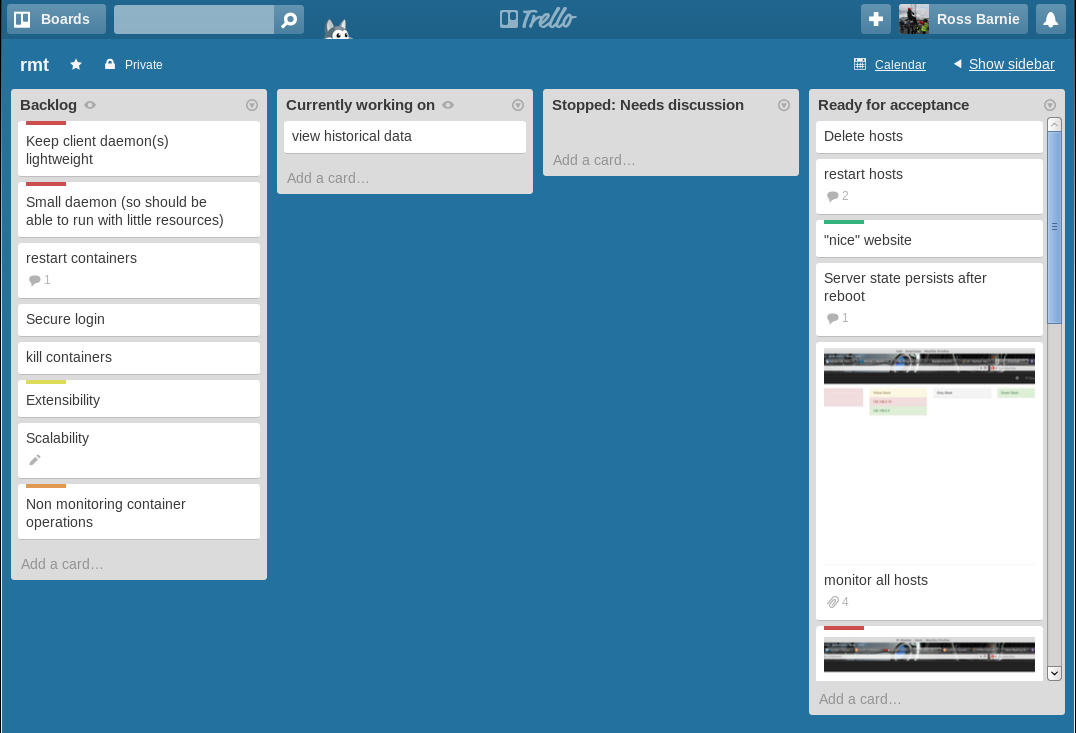
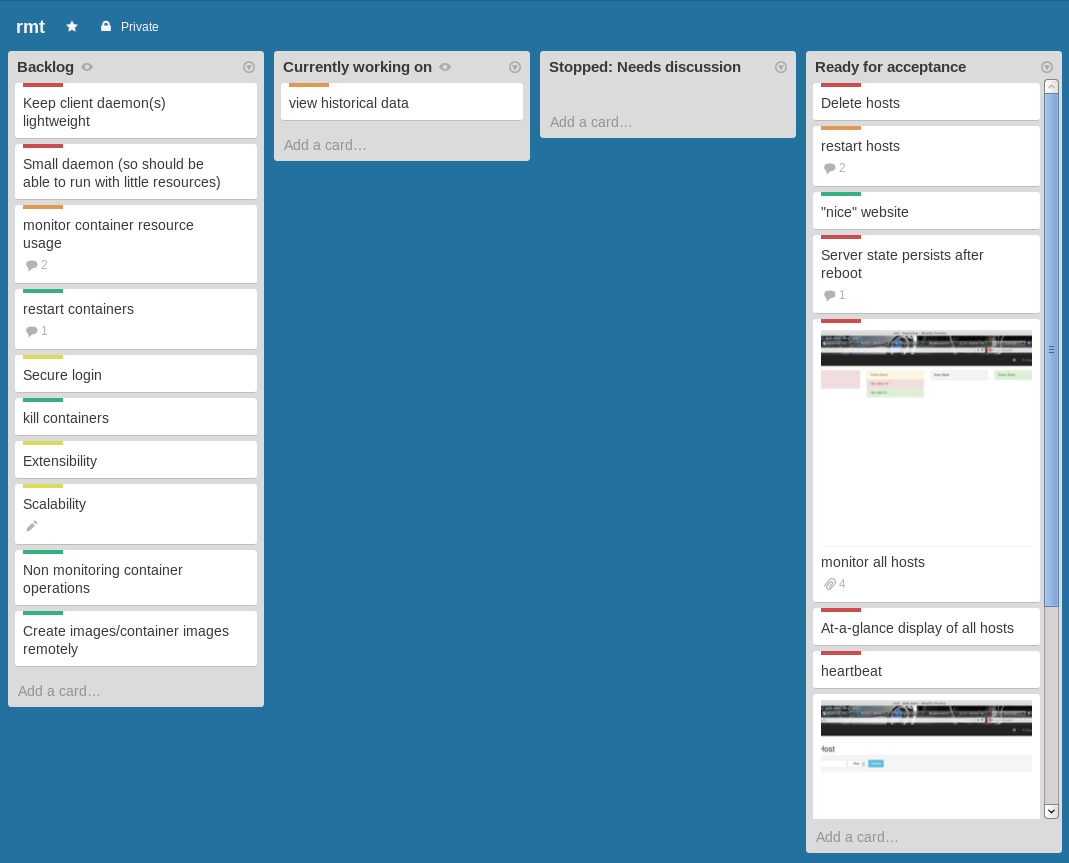
added todays changes

Changed region(s): [[0.0, 0.0, 1.0, 1.0]]

diff --git a/tex/problems.tex b/tex/problems.tex
@@ -1,0 +1,36 @@
+Throughout the development of \emph{rmt} many problems were encountered, some of which are outlined below.
+
+\subsection{Google Charts}
+
+Part of the reason the history graphs functionality was never completed was due to problems encountered when working with Google Charts \citeyearpar{googlecharts}.
+Some of the problems were to do with lack of understanding of JavaScript \citep{javascript} and jQuery \citep{jquery}.
+
+As explained in section \ref{rmt_server}, web.py's templating language uses the dollar sign (\$) as a signal to begin a statement.
+JQuery is also automatically included in each of the pages used by \emph{rmt} since it is used by Bootstrap.
+This proved problematic in a script designed to create a graph using Google Charts since it uses JavaScript and the dollar sign is jQuery shorthand to begin manipulating HTML elements.
+This conflict was not picked up by web.py's debug mode, nor by Firefox's web development tools \citep{firefoxdevtools}, so no error message was displayed, but no graph was displayed.
+
+After several failed attempts it was abandoned in favour of Flot \citep{flot}, which for reasons yet to reveal themselves, works even with the same dollar sign conflict problem as Google Charts.
+
+\subsection{Web.py forms and Bootstrap form styling}
+
+Using forms in web.py is relatively simple, as there are code samples on the web.py website explaining how to use them \citep{webpyform, webpyformfields}, however these do not include how to style individual fields, and neither does the API reference describing the web.py form class \citep{webpyformclass}.
+
+After many failed attempts at constructing the form in the python codebase rather than in the template, it was decided to attempt to create the form in the HTML template, then manipulate the results in the python codebase.
+This is now the form used in the add page.
+
+\subsection{Development location}
+
+Primarily the development of \emph{rmt} was completed at home and not at University of Glasgow's level 4 computing science laboratory for a number of reasons.
+
+\begin{itemize}
+	\item Root (administrator) access was required to run docker and allowing a student to have root access to the entire laboratory was out of the question, so programming the networking and docker-based functionality was far easier to do and test on a home network with full administrative privileges.
+	\item Docker was not installed on the computers in the level 4 lab, though admittedly due to the previous point this was never requested.
+	\item The disk space quota on the computers in the laboratory is limited and when trying to install modules it would fail due to lack of disk space, leading to wasted time trying to find items to delete.
+\end{itemize}
+
+Working from home was potentially not the only option available.
+Requests could have been made for root access to a small subnet of computers or perhaps a remote authentication to the PiCloud itself could have been arranged, however this was never requested.
+
+While it was the most convenient option it had a detrimental effect on ability to focus, as separating home life from university life proved problematic.
+More of this project could have been completed had development occurred in an environment more conducive to learning and productivity, and though it is accepted that this was not the only problem related to productivity, it was certainly the largest contributing factor.

diff --git a/tex/arch.tex b/tex/arch.tex
@@ -1,4 +1,5 @@
-The architecture of \emph{rmt} is quite simple and a diagram showing the architecture can be seen in figure \ref{fig:arch} which will be referred to throughout this section.
+\label{sec:arch}
+A diagram showing the architecture can be seen in figure \ref{fig:arch} which will be referred to throughout this section.
 
 \begin{figure}[t]
 	\centering
@@ -20,7 +21,7 @@ There is no communication between \verb%rmt_client% and \verb%HeartbeatClient%.
 
 \subsection{Docker}
 The docker module seen in the architecture diagram is docker running on the client.
-Docker and its uses are explained in section [section reference to docker].
+Docker and its uses are explained in section \ref{sec:docker}.
 
 \subsection{rmt\_client}
 \label{sec:rmt_client}
@@ -59,6 +60,7 @@ This table contains the following fields:
 \end{description}
 
 \subsection{HeartbeatServer and HeartbeatClient}
+\label{sec:heartbeat}
 Both of these are not original to \emph{rmt} as they were retrieved from [link] and this is stated as such in the comments of the source code.
 However they were adapted for use in \emph{rmt}.
 
@@ -69,6 +71,7 @@ The number of seconds between each sent packet is configurable on HeartbeatClien
 This number must be a whole number, ie integer.
 
 \subsection{rmt\_server}
+\label{sec:rmt_server}
 
 In accordance with the \verb%web.py% framework \citep{webpy}, each web page is assigned a class and that class deals with the logic behind the request either by using the class's \verb%GET% or \verb%POST% method, depending on the type of HTTP request.
 The functions not defined as \verb%GET% or \verb%POST% are not exposed via a web interface and are simply regular python functions, following regular python scoping rules.
@@ -85,7 +88,7 @@ For example in the host class's \verb%GET% method, a dictionary is passed to the
 This allows for some entries to be non-existant, or \verb%None% value in python, which means that not all of the information has to be retrieved for the web page to be displayed, giving the application robustness.
 In the case that a \verb%None% value is found, this is translated in the template to a user-friendly output, as can be seen in the following code sample:
 
-\begin{lstlisting}[caption={Source code snippet from host.html template file}]
+\begin{lstlisting}[caption={Source code snippet from host.html template file}, label={lst:hostWebpy}]
 CPU (%)
 $if render['cpu_usage'] >= 0:
 	<span class="label label-$render['cpu_state']">
@@ -116,4 +119,4 @@ The values themselves are retrieved from the hosts via \verb%rmt_client%'s RESTf
 All database transactions are completed through a wrapper, rather than directly via URLs for example.
 This adds security to the application as it means there is no chance of someone performing database actions by accident or intentionally in the case of SQL injection.
 
-It also allows for other databases to be used with minimal change to the source code since the database can be initialised using a PostgreSQL \citep{postgresql} database instead of a MySQL one simply by changing the database constructor. ADD TO FUTURE WORK SECTION TO MAKE THIS CONFIGURABLE.
+It also allows for other databases to be used with minimal change to the source code since the database can be initialised using a PostgreSQL \citep{postgresql} database instead of a MySQL one simply by changing the database object constructor and possibly the database creation script.

diff --git a/tex/reqs.tex b/tex/reqs.tex
@@ -1,0 +1,45 @@
+Requirements were discussed in weekly meetings with the aforementioned product owner and supervisor of the project, David White.
+These requirements were then noted and added to the Trello page for the project, further discussed in section \ref{sec:trello}, and given a priority of one of: ``Must have'', ``Should have'', ``Could have'', ``Would like to have'', commonly known as the MoSCoW framework.
+
+\subsection{Must Have}
+\label{sec:musthave}
+\begin{description}
+	\item[Keep client daemon(s) lightweight] given the Raspberry Pi's lack of resources, any applications running should use as little resources as possible
+	\item[Monitor all hosts] the user should be able to monitor all 56 hosts
+	\item[``at-a-glance'' monitoring] the user should not have to scroll to view all 56 hosts
+	\item[Monitor resource usage of all hosts] the system should be able to display a given host's resource usage (RAM and CPU usage)
+	\item[Temperature monitoring] the system should display the temperature of a given host
+	\item[Delete a host] the user should be able to delete hosts from the system to stop monitoring it
+	\item[Server state persists after reboot] the system should remain the same after a reboot of Pi Master
+	\item[Heartbeat] the application should include some kind of heartbeat to indicate whether a host is turned on and responding
+\end{description}
+
+\subsection{Should Have}
+\label{sec:shouldhave}
+\begin{description}
+	\item[Reboot a host] the user should be able to reboot a host from the system
+	\item[View historical data] there should be some graphs to show the user historical data regarding resource usage and temperature
+	\item[Monitor resource usage of containers] monitoring the resources used by the containers
+\end{description}
+
+\subsection{Could Have}
+\label{sec:couldhave}
+\begin{description}
+	\item[Extensibility] the application should be extensible
+	\item[Scalability] the application should scale well to allow for additional hosts
+	\item[Secure login] the user should have to log in to view the application to allow for remote access and user privileges
+\end{description}
+
+\subsection{Would like to have}
+\label{sec:wouldhave}
+\begin{description}
+	\item[Non-monitoring container operations] any function related to containers that are not monitoring, such as:
+	\begin{itemize}
+		\item kill containers
+		\item restart containers
+		\item start containers
+		\item stop containers
+	\end{itemize}
+	\item[create container images remotely] containers need an image to be created from, this could be done remotely
+	\item[``nice'' website] the website should be user-friendly 
+\end{description}

diff --git a/tex/designtools.tex b/tex/designtools.tex
@@ -1,8 +1,9 @@
 Most of the decisions regarding tools were made during implementation.
 However the following tools were made to aid the design process or were made prior to implementation.
-Those made during implementation are outlined in section [section reference to implementation tools].
+Those made during implementation are outlined in section \ref{sec:impltools}.
 
 \subsection{Trello}
+\label{sec:trello}
 Trello \citep{trello} is an organisational tool and while it is marketed as a tool to organise anything, it was created initially to organise teams in an office setting \citep{trellolaunch} with a group of contributors.
 However it is extremely useful as a project management tool, even for solo projects such as this.
 
@@ -59,6 +60,7 @@ PyCharm \citep{pycharm} is a Python Integrated Development Environment (IDE) wit
 	\item line and block commenting
 	\item real-time error highlighting
 	\item refactoring
+	\item remote execution/interpreters
 \end{itemize}
 This is not an exhaustive list, however these were the features most used in development of \emph{rmt}.
 Many of these features can be found in other editors but some, for example GNU Emacs \citeyearpar{emacs}, require setting up of plugins and given that \emph{rmt} would be developed in multiple locations it was very important to be able to easily replicate the development environment with as little configuration as possible.
@@ -69,3 +71,7 @@ Thus it was seen as a priority.
 
 Refactoring in PyCharm is very easy to use and proved useful on a number of occasions in the development of \emph{rmt}.
 It allows the developer to change all references to a symbol to something different with minimal input and works on anything from classes to variables.
+
+PyCharm also has remote execution built in.
+This allows the developer to use an interpreter on a remote host to run code from the local host, which was used when testing the client application on a Raspberry Pi.
+With the Raspbian installation on the Pi used in development having no GUI (which is also true of the hosts in the PiCloud) this was very useful to push code to the Pi without having to commit the code to the repository then pull it on the Pi, speeding up code testing.

diff --git a/tex/currentState.tex b/tex/currentState.tex
@@ -1,0 +1,25 @@
+Currently \emph{rmt} meets all of the ``Must Have'' requirements outlined in section \ref{sec:musthave}.
+Using python as the language may not be the fastest choice but it is lightweight, using little resources to run the client application thanks to the web.py framework.
+
+The user can view all of the hosts on a single page depending on their screen resolution.
+Development of \emph{rmt} was performed on a monitor with a 4:3 ratio and resolution of 1280x1024 and this was sufficient to display 56 hosts at a time.
+Having a screen height of less than 800 pixels may require some scrolling, though modern monitors rarely have less than this, particularly in 4:3 ratio monitors.
+
+``At-a-glance'' monitoring is accomplished through the heartbeat states, though is limited to showing simply whether a host is responding and any other information requires further navigation by the user.
+
+Resource usage and temperature monitoring is similarly affected in that it requires navigation to a host to view.
+
+Deleting and rebooting hosts is performed via buttons on the host page.
+
+Server state is persistent thank to use of the database for heartbeats and because other host-relevant information is gathered by request of the host page and not stored locally.
+
+The heartbeat requirement is fulfilled thanks to the heartbeat server and client discussed in section \ref{sec:heartbeat}.
+
+As the evaluation discussed in section [reference] %\ref{sec:evaluation}
+shows, the website is user-friendly and can therefore qualify as being a ``nice website''.
+
+With the MySQL database being the key storage of the system, it should be scalable at least to the 1000 hosts initially intended by the PiCloud project however this is untested.
+
+Extensibility is achieved in the sense that the code is readable, given the web.py framework's simple method of adding web-accessible methods, easy to follow.
+If someone were to want to extend the project by adding a page for example, they would simply have to add a URL mapping, a class to handle the URL, a GET method within this, and then design the content of the page with a HTML file in the templates folder.
+

diff --git a/tex/intro.tex b/tex/intro.tex
@@ -9,7 +9,7 @@ Linux containers.
 
 The University of Glasgow's Raspberry Pi Cloud \citep{glapicloud, picloudblog} (which will now be 
 referred to as PiCloud, not to be confused with PiCloud Inc. \citeyearpar{picloudinc}) is an effort by the University of Glasgow to replicate Warehouse Scale Computing (WSC) [reference] on a number of Raspberry Pi \citep{rasppi} devices to create a small-scale cloud [cloud reference?].
-This was implemented using a software stack consisting of various tools such as LXC \citeyearpar{lxc}running on the Pi devices, each communicating to a ``Pi Master'' which is a regular PC server.
+This was implemented using a software stack consisting of various tools such as LXC \citeyearpar{lxc} running on the Pi devices, each communicating to a ``Pi Master'' which is a regular PC server.
 Prior to the creation of \emph{rmt} no monitoring tool was in use, meaning that no user feedback was received when, for example, a host stopped communicating to the Pi Master.
 Currently the PiCloud consists of 56 Raspberry Pi devices each running Raspbian Linux \citeyearpar{raspbian} with a custom kernal and docker \citeyearpar{docker} as part of the software stack to control the host's Linux containers (which will be referred to as simply ``containers'' from now on).
 However the project initially intended to have a thousand (1000) hosts.
@@ -21,9 +21,3 @@ The devices themselves are organised into four towers of Lego bricks, each a sep
 	\caption{Photograph of the lego-built Raspberry Pi towers}
 	\label{fig:pitowers}
 \end{figure}
-
-\section{University of Southampton Raspberry Pi Supercomputer}
-\label{intro:pisupercomp}
-
-It should be noted that University of Southampton also created a cluster of Raspberry Pi devices and before the University of Glasgow did according to the PiCloud blog \citep{picloudblog}, however theirs was designed to create a single, miniature super-computer.
-This is sufficiently different in design and purpose from PiCloud as to disregard it for the purposes of this study.

diff --git a/tex/future.tex b/tex/future.tex
@@ -1,0 +1,19 @@
+In the near future the code will be made open source.
+While this is not expected to generate great interest in the open source community, given the almost bespoke nature of the software, it is of great personal interest to do so and some of the code that was not used but exist for posterity will be removed to clean up the repository.
+
+Historical graphs were in development and close to completion, so this will be the first feature to be implemented (currently this code resides in the history-graphs branch of the repository).
+The history graphs are calculated using a new module which will be run periodically to gather the CPU, RAM, and temperature information from each host and add this to a new table in the database, as shown in figure \ref{fig:newArch}
+
+\begin{figure}[t]
+	\centering
+	\setlength\fboxsep{0pt}
+	\setlength\fboxrule{0pt}
+	\fbox{\includegraphics[scale=0.4]{newArch}}
+	\caption{Proposed new architecture to allow for history graphs}
+	\label{fig:newArch}
+\end{figure}
+
+Other functionality in the requirements but not fulfilled at this time are the priority of future work, as well as the changes recommended as a result of the evaluation, outlined in section [reference]. %\ref{sec:evaluation}
+
+The database does not necessarily have to be a MySQL database, and if someone were to want to use, for example, PostgreSQL instead, then this switch should be made easier by making it part of the configuration files.
+It may require a different database creation script than the one currently in use but it should be a simple matter of parameterising the database object creation line in the database layer, and using the creation script related to the database the user wants.

diff --git a/tex/docker.tex b/tex/docker.tex
@@ -1,9 +1,10 @@
+\label{sec:docker}
 Docker \citep{docker} is a container management tool that packages applications as lightweight containers.
 It is already used within the PiCloud on the command line to manage its containers, however monitoring these is a long process based on terminal commands on individual hosts.
 Considering the PiCloud has 56 hosts with the possibility of expansion, it would be unreasonable to expect these commands to continue to be done via individual terminal commands, hence the need for \emph{rmt}.
  
- \subsubsection{DockerUI}
- Docker does have its own web interface which runs client-side so there is the possibility of a user-friendly way to monitor running (or not) containers.
+ \subsection{DockerUI}
+ Docker has another project that provides a web interface which runs client-side so there is the possibility of a user-friendly way to monitor running (or not) containers.
  As can be seen in figure \ref{fig:dockerUiContainers}, the interface shows running containers and the applications those containers are running and the status of the container.
  This is useful information, however it monitors a single host, rather than multiple.
 

diff --git a/tex/implTools.tex b/tex/implTools.tex
@@ -1,3 +1,4 @@
+\label{sec:impltools}
 These differ from design tools in that these are tools not thought of during design but which were necessitated by something in the process of implementation.
 
 \subsection{Dockerpy}
@@ -50,8 +51,7 @@ a.list-group-item-dead.active:focus {
 \end{lstlisting}
 
 \subsection{web.py}
-\verb%web.py% \citep{webpy} is a lightweight python web development framework.
-Being the only web framework advertised to be lightweight it had a distinct advantage over similar frameworks such as Django \citep{django} which was deemed too heavyweight to be useful to \emph{rmt}.
+\verb%web.py% \citep{webpy} is a lightweight python web development framework meaning it has a distinct advantage over similar frameworks such as Django \citep{django} which were deemed too heavyweight to be useful to \emph{rmt}.
 The requirement to be as light as possible motivated this decision more than anything else.
 However while first looking for a framework this appeared to be well documented and appeared simple to use, very much unlike Django which follows very strict guidelines.
 

diff --git a/main.tex b/main.tex
@@ -5,22 +5,27 @@
 \begin{document}
 \maketitle
 \tableofcontents
-
+\listoffigures
 \input{./tex/ackn.tex}
 
+
+\pagenumbering{arabic}
 \chapter{Introduction}
 \input{./tex/intro.tex}
 
 \chapter{Context}
-\section{Other Systems}
-\subsection{Docker}
+\section{University of Southampton Raspberry Pi Supercomputer}
+\input{./tex/southampton.tex}
+\section{Docker}
 \input{./tex/docker.tex}
-\subsection{Shipyard}
+\section{Shipyard}
 \input{./tex/shipyard.tex}
 
 \chapter{Design}
 \section{Methodology}
 \input{./tex/scrum.tex}
+\section{Requirements Gathering}
+\input{./tex/reqs.tex}
 \section{Tools}
 \input{./tex/designtools.tex}
 \section{Website Design}
@@ -34,14 +39,16 @@
 \section{User Interface}
 \input{./tex/ui.tex}
 
-
-
 \chapter{Evaluation}
 
+
 \chapter{Conclusion}
-\section{Future Work}
-\section{``Journey''}
 \section{Problems Encountered}
+\input{./tex/problems.tex}
+\section{Current State}
+\input{./tex/currentState.tex}
+\section{Future Work}
+\input{./tex/future.tex}
 
 \bibliography{ref}
 

diff --git a/tex/southampton.tex b/tex/southampton.tex
@@ -1,0 +1,4 @@
+\label{intro:pisupercomp}
+
+It should be noted that University of Southampton also created a cluster of Raspberry Pi devices and before the University of Glasgow did according to the PiCloud blog \citep{picloudblog}, however theirs was designed to create a single, miniature super-computer.
+This is sufficiently different in design and purpose from PiCloud as to disregard it for the purposes of this study.

diff --git a/tex/eval.tex b/tex/eval.tex
@@ -1,0 +1,3 @@
+\label{sec:evaluation}
+
+A usability evaluation was carried out on the deployed version of \emph{rmt} which had 11 hosts in the yellow tower running the client-side software stack, with the Pi Master running the server-side stack, described in section \ref{sec:arch}
